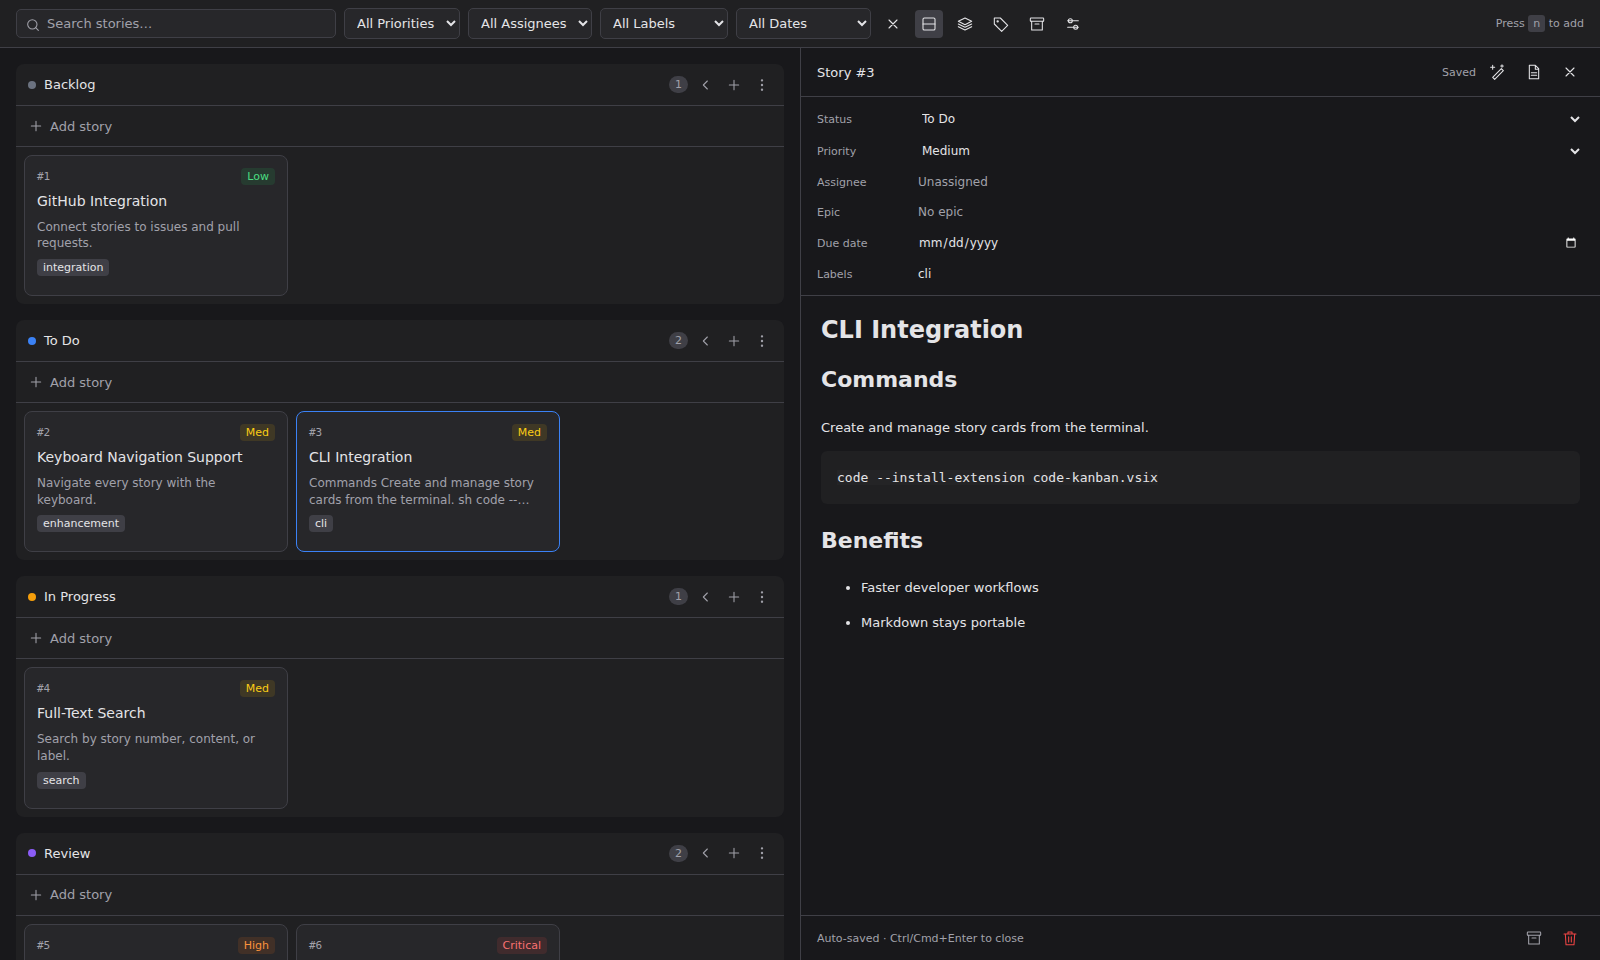
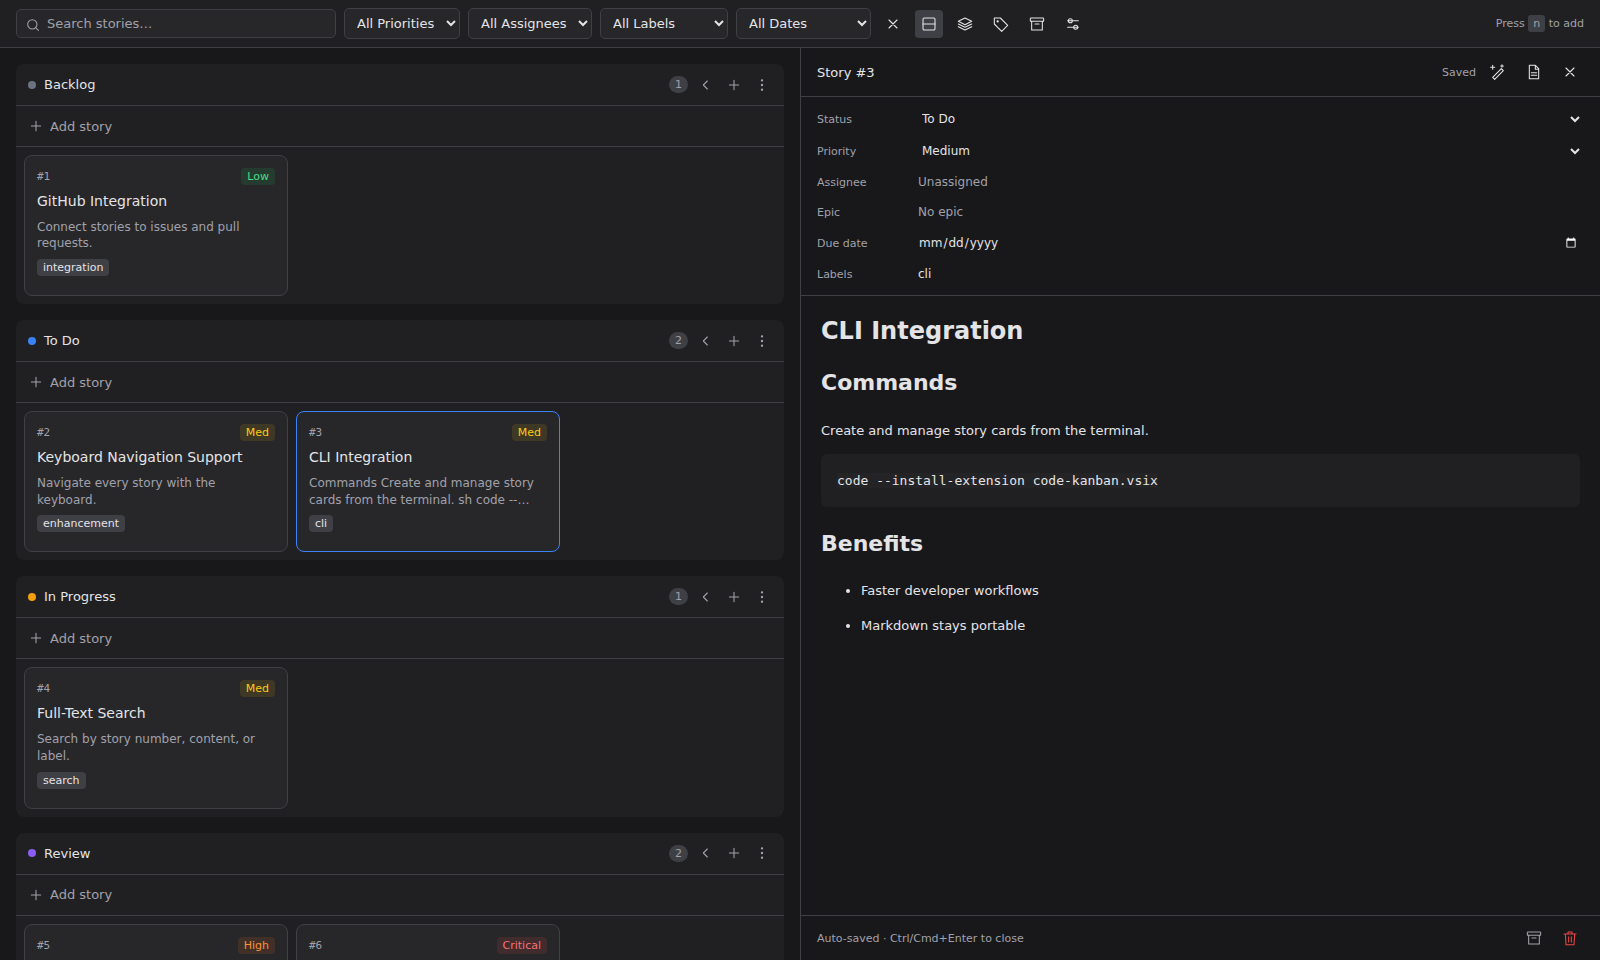
Add wrapping story titles and Activity Bar board in 0.2.0

diff --git a/src/board.js b/src/board.js
@@ -233,6 +233,7 @@ function renderCard(story) {
 }
 async function openNew(status = state.config.defaultStatus) { await closeEditor(); openEditor(null, status); }
 function openEditor(story, status) {
+  session?.titleObserver?.disconnect();
   editor?.destroy(); workspace.querySelector('.editor')?.remove();
   session = { story, dirty: false, version: 0, saving: null, timer: null, contentChanged: false };
   const current = session;
@@ -254,8 +255,21 @@ function openEditor(story, status) {
     property(label, key, input);
   }
   node.append(properties);
-  const content = el('div', 'editor-content'); current.title = el('input', 'story-title'); current.title.placeholder = 'Story title'; current.title.setAttribute('aria-label', 'Story title'); current.title.value = story ? title(story) : '';
-  current.title.addEventListener('input', () => { current.contentChanged = true; changed(current); }); content.append(current.title);
+  const content = el('div', 'editor-content'); current.title = el('textarea', 'story-title'); current.title.rows = 1; current.title.placeholder = 'Story title'; current.title.setAttribute('aria-label', 'Story title'); current.title.value = story ? title(story) : '';
+  function resizeTitle() {
+    current.title.style.height = 'auto';
+    current.title.style.height = `${current.title.scrollHeight}px`;
+  }
+  current.title.addEventListener('input', () => {
+    current.title.value = current.title.value.replace(/[\r\n]+/g, ' ');
+    resizeTitle(); current.contentChanged = true; changed(current);
+  });
+  current.title.addEventListener('keydown', event => {
+    if (event.key === 'Enter' && !event.ctrlKey && !event.metaKey) {
+      event.preventDefault(); current.editor.commands.focus();
+    }
+  });
+  content.append(current.title);
   const rich = el('div'); content.append(rich); node.append(content);
   const footer = el('footer', 'editor-footer'); footer.append(el('span', '', story ? 'Auto-saved · Ctrl/Cmd+Enter to close' : 'Esc or Ctrl/Cmd+Enter to save and close'), el('span', 'spacer'));
   if (story) footer.append(button(story.archived ? 'Restore story' : 'Archive story', 'archive', async () => { await closeEditor(); await request('flag', { number: story.number, field: 'archived', value: !story.archived }); }), button('Delete story', 'trash', async () => {
@@ -278,7 +292,14 @@ function openEditor(story, status) {
     onUpdate: () => { current.contentChanged = true; changed(current); }
   });
   current.editor = editor;
-  current.title.focus(); renderBoard();
+  let titleWidth;
+  current.titleObserver = new ResizeObserver(([entry]) => {
+    if (entry.contentRect.width !== titleWidth) {
+      titleWidth = entry.contentRect.width; resizeTitle();
+    }
+  });
+  current.titleObserver.observe(current.title);
+  resizeTitle(); current.title.focus(); renderBoard();
 }
 function changed(current) {
   current.dirty = true; current.version++; current.status.textContent = current.story ? 'Unsaved' : 'Draft';
@@ -321,6 +342,7 @@ async function flushEditor() {
 }
 function disposeEditor() {
   if (session) clearTimeout(session.timer);
+  session?.titleObserver?.disconnect();
   editor?.destroy(); editor = null; session = null;
   workspace.querySelector('.editor')?.remove(); renderBoard();
 }

diff --git a/test/extension.test.js b/test/extension.test.js
@@ -12,6 +12,7 @@ test('extension commands open one tab per repository and route Markdown writes u
   const root = await fs.mkdtemp(path.join(os.tmpdir(), 'kanban-host-'));
   t.after(() => fs.rm(root, { recursive: true, force: true }));
   const commands = new Map(), panels = [];
+  let sidebarProvider;
   const noop = { dispose() {} };
   const uri = file => ({ fsPath: file, scheme: 'file', toString: () => pathToFileURL(file).href });
   const folder = { name: 'example', uri: uri(path.join(root, 'repository')) };
@@ -27,6 +28,7 @@ test('extension commands open one tab per repository and route Markdown writes u
     window: {
       showInformationMessage: async () => {}, showErrorMessage: async error => { throw new Error(error); },
       registerWebviewPanelSerializer: () => noop,
+      registerWebviewViewProvider: (id, provider) => { assert.equal(id, 'code-kanban.boardView'); sidebarProvider = provider; return noop; },
       createWebviewPanel: () => {
         const events = new EventEmitter(), messages = [];
         const panel = { messages, events, reveal() {}, dispose() {}, onDidDispose: () => noop,
@@ -50,10 +52,10 @@ test('extension commands open one tab per repository and route Markdown writes u
   const panel = panels[0];
   assert.match(panel.webview.html, /Content-Security-Policy/);
   assert.match(panel.webview.html, /script-src 'nonce-/);
-  const send = async message => {
-    panel.events.emit('message', message);
+  const send = async (message, target = panel) => {
+    target.events.emit('message', message);
     for (let i = 0; i < 200; i++) {
-      const response = panel.messages.find(item => item.requestId === message.requestId && item.type === 'result');
+      const response = target.messages.find(item => item.requestId === message.requestId && item.type === 'result');
       if (response) { assert.equal(response.error, undefined); return response; }
       await new Promise(resolve => setTimeout(resolve, 5));
     }
@@ -64,6 +66,16 @@ test('extension commands open one tab per repository and route Markdown writes u
   const file = path.join(context.storageUri.fsPath, 'repositories', repositoryKey(folder.uri.toString()), 'STORY-0001.md');
   assert.match(await fs.readFile(file, 'utf8'), /# Host story/);
   await assert.rejects(fs.stat(folder.uri.fsPath), { code: 'ENOENT' });
+  const sidebar = vscode.window.createWebviewPanel();
+  panels.pop(); // The view is supplied by VS Code independently of editor panels.
+  await sidebarProvider.resolveWebviewView(sidebar);
+  const sidebarState = await send({ type: 'refresh', requestId: 2 }, sidebar);
+  assert.equal(sidebarState.stories[0].content, '# Host story');
+  await send({ type: 'create', requestId: 3, data: { status: 'todo', priority: 'high', labels: [], content: '# Sidebar story' } }, sidebar);
+  const tabState = await send({ type: 'refresh', requestId: 4 });
+  assert.equal(tabState.stories.length, 2);
+  await commands.get('code-kanban.open')();
+  assert.equal(panels.length, 1, 'sidebar must not replace the editor panel');
   context.storageUri = undefined;
   await commands.get('code-kanban.open')();
   assert.equal(panels.length, 1);

diff --git a/src/extension.js b/src/extension.js
@@ -14,7 +14,7 @@ function activate(context) {
     if (folders.length === 1) return folders[0];
     return vscode.window.showWorkspaceFolderPick({ placeHolder: 'Choose the repository for this board' });
   }
-  function attach(panel, folder) {
+  function attach(panel, folder, sidebar = false) {
     const key = folder.uri.toString();
     const directory = vscode.Uri.joinPath(context.storageUri, 'repositories', repositoryKey(key));
     const store = new StoryStore(directory.fsPath);
@@ -82,9 +82,9 @@ function activate(context) {
       disposed = true;
       clearTimeout(refreshTimer);
       disposables.forEach(disposable => disposable.dispose());
-      panels.delete(key);
+      if (!sidebar && panels.get(key) === panel) panels.delete(key);
     });
-    panels.set(key, panel);
+    if (!sidebar) panels.set(key, panel);
     const nonce = randomBytes(16).toString('hex');
     const script = panel.webview.asWebviewUri(vscode.Uri.joinPath(context.extensionUri, 'dist', 'board.js'));
     const css = panel.webview.asWebviewUri(vscode.Uri.joinPath(context.extensionUri, 'media', 'board.css'));
@@ -115,6 +115,16 @@ function activate(context) {
   context.subscriptions.push(
     vscode.commands.registerCommand('code-kanban.open', () => report(() => open())),
     vscode.commands.registerCommand('code-kanban.addStory', () => report(() => open(true))),
+    vscode.window.registerWebviewViewProvider('code-kanban.boardView', {
+      async resolveWebviewView(view) {
+        const folder = await folderForBoard();
+        if (!folder) {
+          view.webview.html = '<!doctype html><html><body><p>Open a repository folder to use Code Kanban.</p></body></html>';
+          return;
+        }
+        attach(view, folder, true);
+      }
+    }, { webviewOptions: { retainContextWhenHidden: true } }),
     vscode.window.registerWebviewPanelSerializer('code-kanban.board', {
       async deserializeWebviewPanel(panel, state) {
         const folder = vscode.workspace.workspaceFolders?.find(item => item.uri.toString() === state?.repositoryUri);

diff --git a/test/board.spec.js b/test/board.spec.js
@@ -136,3 +136,19 @@ test('capture reference layouts with representative stories', async ({ page }) =
   await expect(lane.locator('[data-status="todo"] [data-number="1"]')).toBeVisible();
   expect((await store.snapshot()).stories.find(s => s.number === 1).epic).toBe('Epic B');
 });
+
+test('long story titles wrap on opening, typing and resizing without changing Markdown headings', async ({ page }) => {
+  const title = 'A long story title that needs several lines to display every word in a narrow editor beside the Kanban board '.repeat(3).trim();
+  await store.create(data(`# ${title}\n\nDescription`));
+  await open(page); await page.locator('.card').click();
+  const field = page.getByLabel('Story title', { exact: true });
+  await expect(field).toHaveValue(title);
+  const fits = () => field.evaluate(node => node.clientHeight >= node.scrollHeight && node.clientHeight > 60);
+  await expect.poll(fits).toBe(true);
+  await page.setViewportSize({ width: 400, height: 800 });
+  await expect.poll(fits).toBe(true);
+  await field.fill(`${title} More words at the end.`);
+  await expect.poll(fits).toBe(true);
+  await expect(page.locator('.save-status')).toHaveText('Saved');
+  expect((await store.snapshot()).stories[0].content.split('\n')[0]).toBe(`# ${title} More words at the end.`);
+});

diff --git a/media/board.css b/media/board.css
@@ -80,7 +80,7 @@ kbd { background: var(--badge); border-radius: 3px; padding: 2px 5px; font: inhe
 .property > input, .property > select { flex: 1; border-color: transparent; background: transparent; padding: 4px; font-size: 12px; }
 .property:hover { background: var(--column); }
 .editor-content { flex: 1; overflow: auto; padding: 20px; }
-.story-title { width: 100%; background: transparent; border: none; font-size: 24px; font-weight: 600; padding: 0; margin-bottom: 18px; }
+.story-title { display: block; resize: none; overflow: hidden; line-height: 1.3; width: 100%; background: transparent; border: none; font-size: 24px; font-weight: 600; padding: 0; margin-bottom: 18px; }
 .ProseMirror { outline: none; min-height: 200px; line-height: 1.65; overflow-wrap: anywhere; }
 .ProseMirror > :first-child { margin-top: 0; }
 .ProseMirror h1 { font-size: 28px; }.ProseMirror h2 { font-size: 22px; }.ProseMirror h3 { font-size: 18px; }

diff --git a/README.md b/README.md
@@ -1,7 +1,7 @@
 # Code Kanban
 
 A VS Code kanban board with permanent, numbered story cards. Built with vanilla
-JavaScript; no React or TypeScript source. The board opens in its own editor tab.
+JavaScript; no React or TypeScript source. The board opens in its own editor tab or in the Activity Bar sidebar.
 The layout and interactions are based on [Kanban Markdown](https://github.com/LachyFS/kanban-markdown-vscode-extension).
 
 ![Board](docs/board.png)
@@ -21,10 +21,14 @@ To install locally:
 
 ```sh
 npm run package
-code --install-extension code-kanban-0.1.0.vsix
+code --install-extension code-kanban-0.2.0.vsix
 ```
 
 ## Board
+
+Click the **Code Kanban** icon in the Activity Bar for the sidebar board. Its
+**Open Kanban Board** title action opens the editor tab. Both views share the
+same repository data. Story titles wrap and expand automatically in the editor.
 
 - Backlog, To Do, In Progress, Review, Done; editable column names and colors.
 - Drag cards between columns or onto another card to insert before it.
